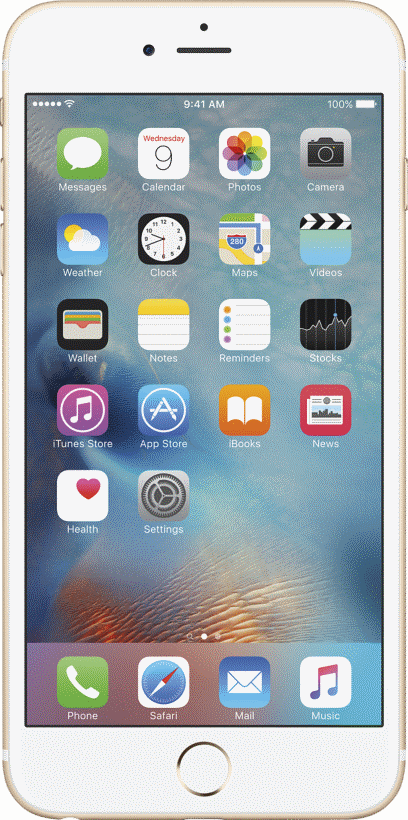
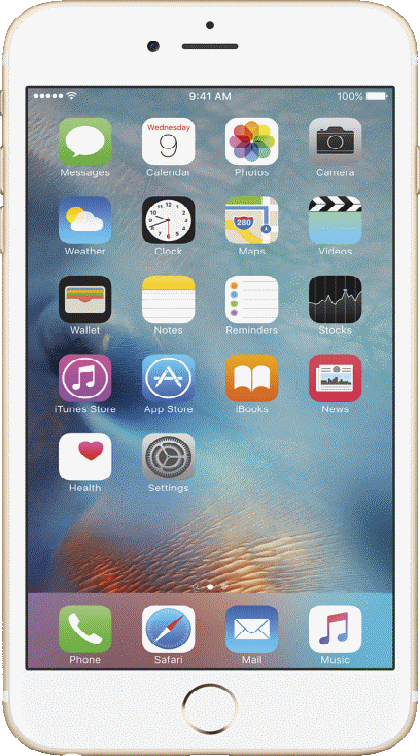
adding phone image

diff --git a/static/css/keen-dashboards.css b/static/css/keen-dashboards.css
@@ -1,8 +1,8 @@
 #heatMap {
     /*background-image: url("{{url_for('static', filename='images/iphone5p.png')}}");*/
     background-image: url(../images/iphone5p.png);
-    height: 445px;
-    width: 840px;
+    height: 756px;
+    width: 420px;
 }
 #maploader {
   border: 5px solid #f3f3f3;
